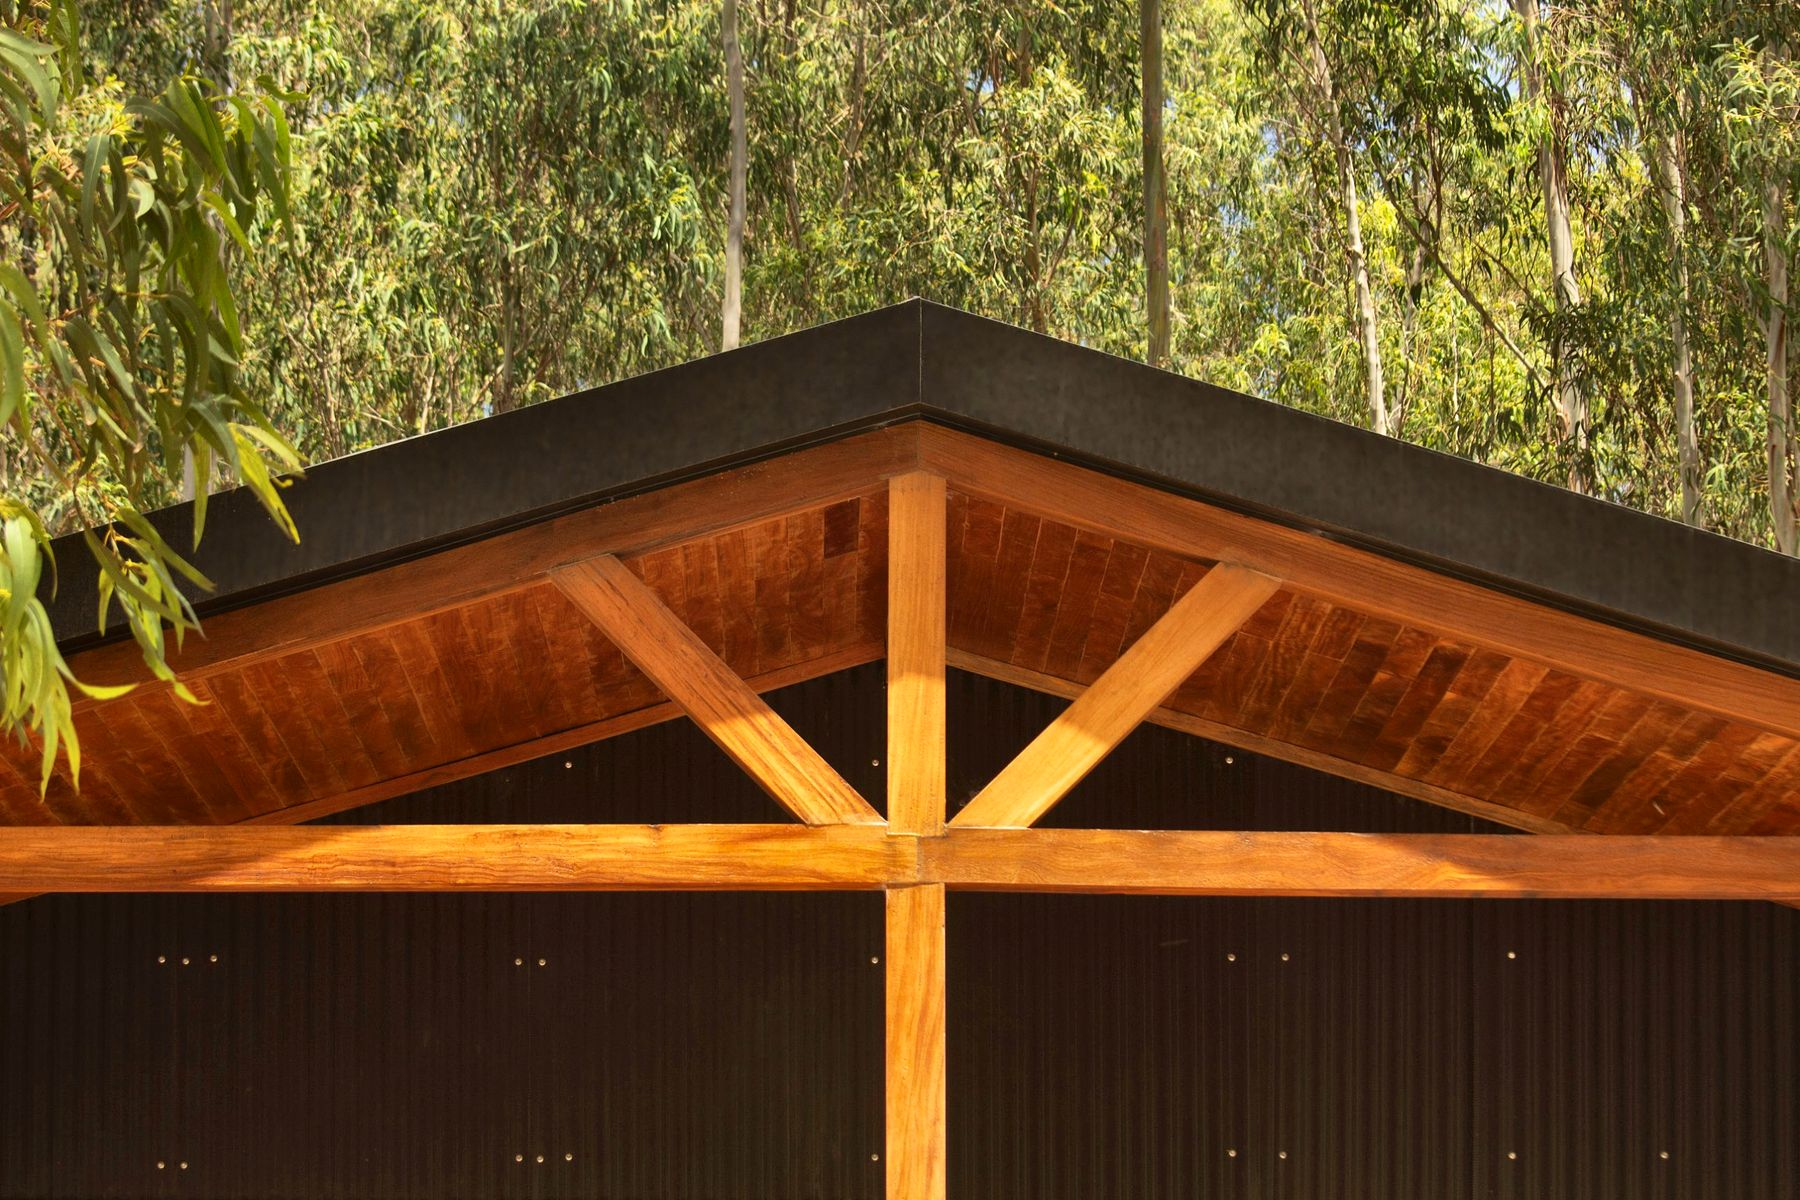
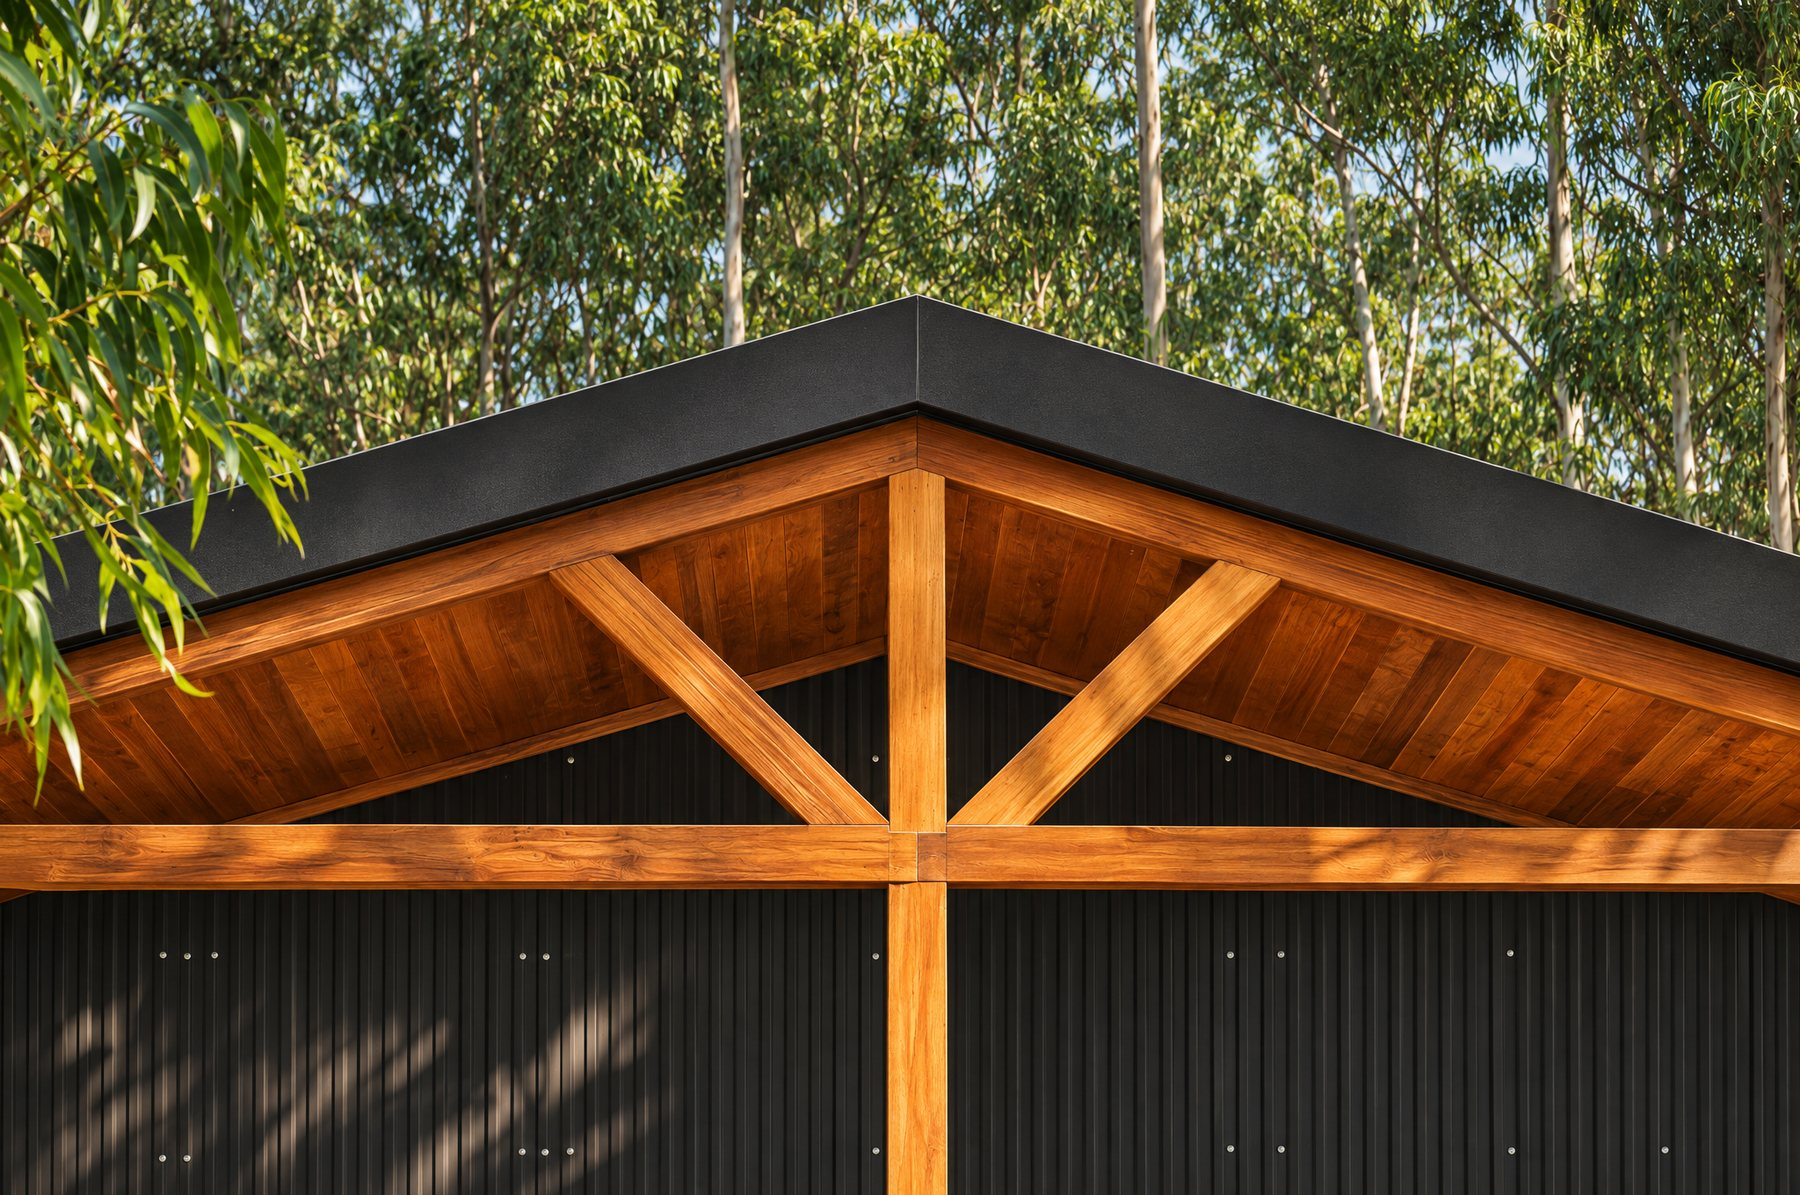
Web SBU: renders nuevos de cercha y cielorraso, y foto de portada
Claude-Session: https://claude.ai/code/session_017rAcojMQWWqPEBy1PCDp9j

diff --git a/web/index.html b/web/index.html
@@ -261,7 +261,7 @@ footer .w{display:flex;flex-wrap:wrap;gap:18px 40px;justify-content:space-betwee
 
 <main id="inicio">
 <section class="hero">
-  <img id="heroImg" alt="" fetchpriority="high">
+  <img id="heroImg" src="img/portada-1800.jpg?v=1" srcset="img/portada-900.jpg?v=1 900w, img/portada-1800.jpg?v=1 1800w" sizes="100vw" alt="" fetchpriority="high" style="object-position:60% 28%">
   <div class="w">
     <div class="eyebrow">Steel frame · Maldonado y Rocha</div>
     <h1>Elegí tu casa. <em>Mirala en 3D.</em> Sabé cuánto sale hoy.</h1>
@@ -275,8 +275,8 @@ footer .w{display:flex;flex-wrap:wrap;gap:18px 40px;justify-content:space-betwee
 </section>
 
 <figure class="obra">
-  <img src="img/obra-cercha-1800.jpg?v=2" srcset="img/obra-cercha-900.jpg?v=2 900w, img/obra-cercha-1800.jpg?v=2 1800w" sizes="100vw" alt="cerchas de madera dura" loading="lazy" style="object-position:50% 40%">
-  <figcaption><div class="w"><div class="eyebrow">Obra real · cerchas de madera dura</div><b>Lo que ves en 3D, lo construimos así.</b><span>Cada modelo del catálogo ya está resuelto en obra: estructura, detalles y terminaciones.</span></div></figcaption>
+  <img src="img/obra-cercha-1800.jpg?v=4" srcset="img/obra-cercha-900.jpg?v=4 900w, img/obra-cercha-1800.jpg?v=4 1800w" sizes="100vw" alt="cerchas de madera dura" loading="lazy" style="object-position:50% 40%">
+  <figcaption><div class="w"><div class="eyebrow">Cerchas de madera dura a la vista</div><b>Lo que ves en 3D, lo construimos así.</b><span>Cada modelo del catálogo ya está resuelto en obra: estructura, detalles y terminaciones.</span></div></figcaption>
 </figure>
 
 <section class="s" id="buscar"><div class="w">
@@ -377,8 +377,8 @@ footer .w{display:flex;flex-wrap:wrap;gap:18px 40px;justify-content:space-betwee
   </ol>
 </div></section>
 <figure class="obra">
-  <img src="img/obra-cielorraso-1800.jpg?v=3" srcset="img/obra-cielorraso-900.jpg?v=3 900w, img/obra-cielorraso-1800.jpg?v=3 1800w" sizes="100vw" alt="cielorraso de madera dura" loading="lazy" style="object-position:40% 50%">
-  <figcaption><div class="w"><div class="eyebrow">Obra real · cielorraso de madera dura</div><b>Terminaciones que se sienten.</b><span>Madera noble donde se ve, aislación donde no. Pensado para durar.</span></div></figcaption>
+  <img src="img/obra-cielorraso-1800.jpg?v=4" srcset="img/obra-cielorraso-900.jpg?v=4 900w, img/obra-cielorraso-1800.jpg?v=4 1800w" sizes="100vw" alt="cielorraso de madera dura" loading="lazy" style="object-position:40% 50%">
+  <figcaption><div class="w"><div class="eyebrow">Cielorraso de madera dura</div><b>Terminaciones que se sienten.</b><span>Madera noble donde se ve, aislación donde no. Pensado para durar.</span></div></figcaption>
 </figure>
 </main>
 
@@ -530,7 +530,7 @@ function card(m,big){
    <div class="from">Desde <b>${usdK(desde(m))}</b></div></div></button>`;
 }
 $('grid').innerHTML=M.map(m=>card(m)).join('');
-{const hm=byId[D.precio.heroModelo]||M[0];$('heroImg').src=pic(hm);const ms=M.map(m=>m.m2);document.querySelector('.hero .facts span b').textContent=`${Math.min(...ms)} a ${Math.max(...ms)} m²`;document.querySelector('.hero p').firstChild.nodeValue=`${['Cero','Un','Dos','Tres','Cuatro','Cinco','Seis','Siete','Ocho','Nueve','Diez'][M.length]||M.length} modelos diseñados y probados en obra. `;document.querySelector('[href="#catalogo"].btn').textContent=`Ver los ${M.length} modelos`;document.querySelector('#catalogo h2').textContent=`Los ${M.length} modelos`}
+{const hm=byId[D.precio.heroModelo]||M[0];const ms=M.map(m=>m.m2);document.querySelector('.hero .facts span b').textContent=`${Math.min(...ms)} a ${Math.max(...ms)} m²`;document.querySelector('.hero p').firstChild.nodeValue=`${['Cero','Un','Dos','Tres','Cuatro','Cinco','Seis','Siete','Ocho','Nueve','Diez'][M.length]||M.length} modelos diseñados y probados en obra. `;document.querySelector('[href="#catalogo"].btn').textContent=`Ver los ${M.length} modelos`;document.querySelector('#catalogo h2').textContent=`Los ${M.length} modelos`}
 
 /* ---------- buscador ---------- */
 const ans=ls.get('ans')||{uso:null,pers:null};
